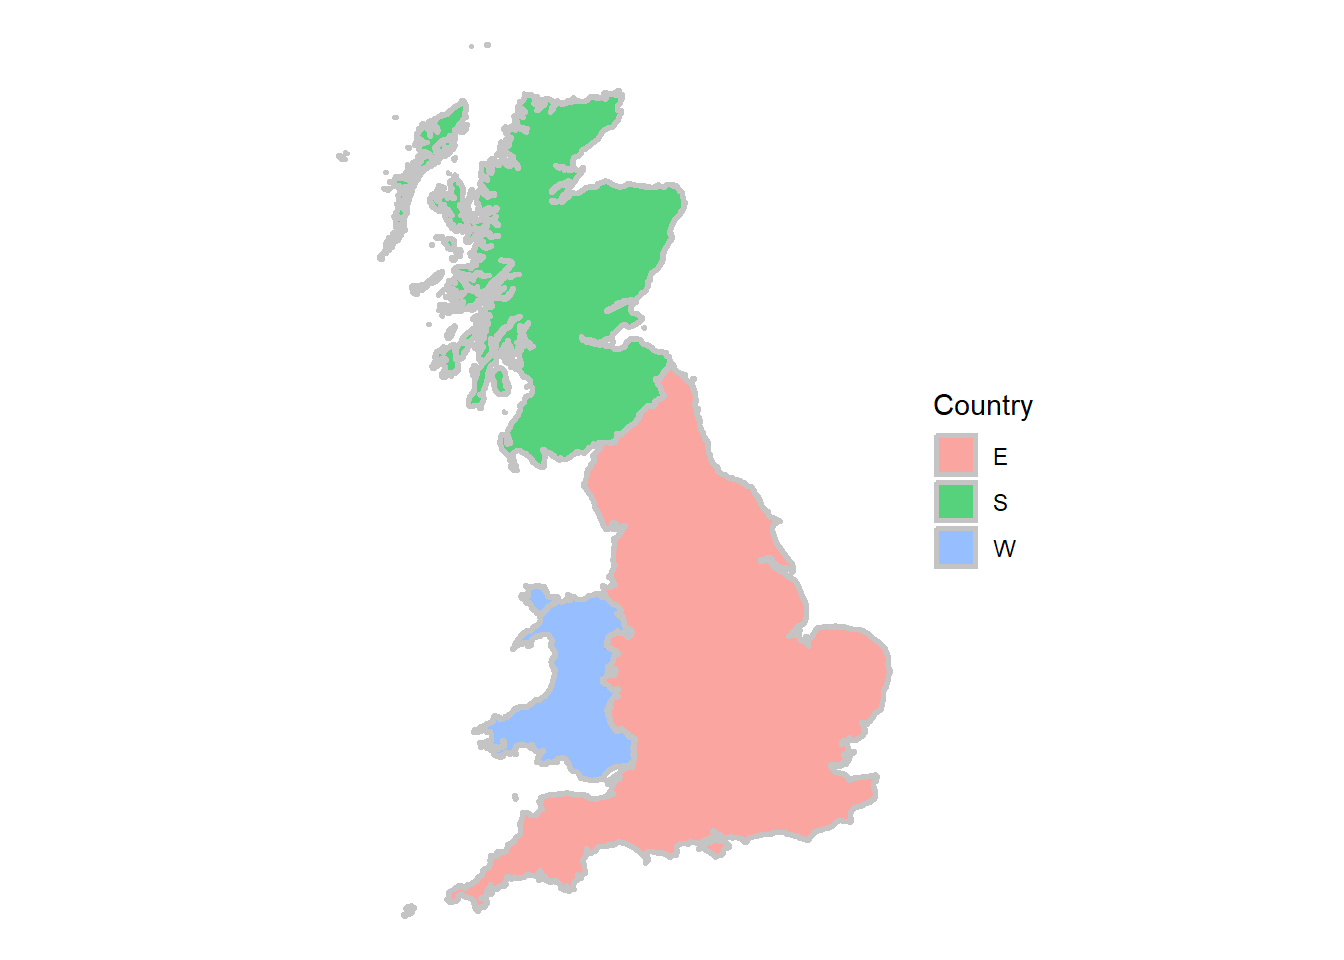
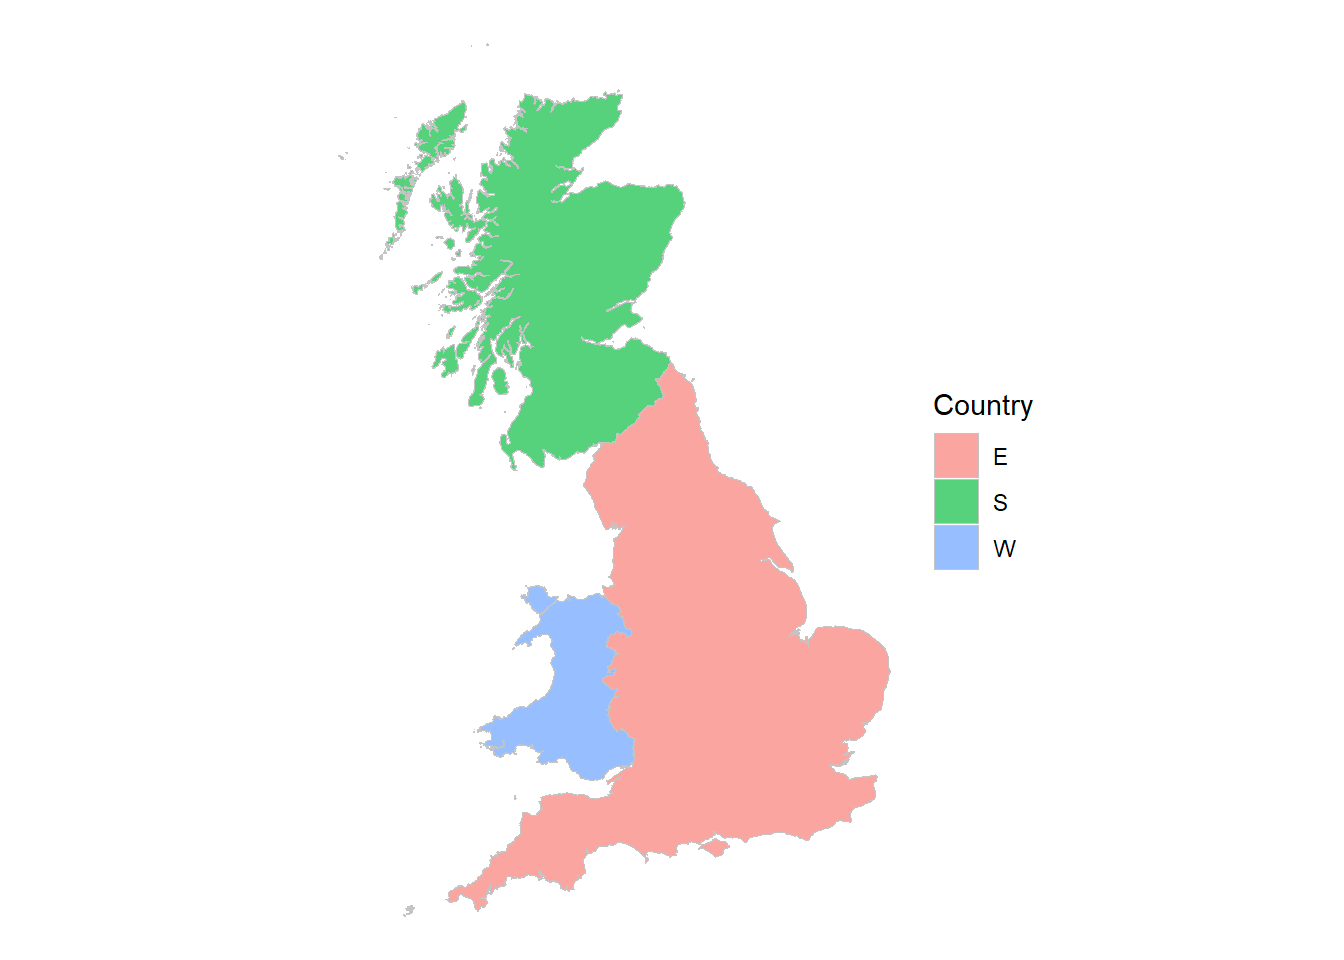
More gray

diff --git a/docs/Maps.html b/docs/Maps.html
@@ -230,11 +230,11 @@ div.csl-indent {
     <h2 id="toc-title">Table of contents</h2>
    
   <ul>
-  <li><a href="#how-heterogenous-is-uk-house-price-inflation" id="toc-how-heterogenous-is-uk-house-price-inflation" class="nav-link active" data-scroll-target="#how-heterogenous-is-uk-house-price-inflation"><span class="toc-section-number">5.1</span>  How heterogenous is UK house price inflation?</a>
+  <li><a href="#how-heterogenous-is-uk-house-price-inflation" id="toc-how-heterogenous-is-uk-house-price-inflation" class="nav-link active" data-scroll-target="#how-heterogenous-is-uk-house-price-inflation"><span class="toc-section-number">5.1</span>  How heterogenous is UK house price inflation?</a></li>
+  <li><a href="#inflation-data-and-regions" id="toc-inflation-data-and-regions" class="nav-link" data-scroll-target="#inflation-data-and-regions"><span class="toc-section-number">5.2</span>  Inflation data and regions</a>
   <ul class="collapse">
-  <li><a href="#inflation-data-and-regions" id="toc-inflation-data-and-regions" class="nav-link" data-scroll-target="#inflation-data-and-regions"><span class="toc-section-number">5.1.1</span>  Inflation data and regions</a></li>
+  <li><a href="#inflation-in-grayscale" id="toc-inflation-in-grayscale" class="nav-link" data-scroll-target="#inflation-in-grayscale"><span class="toc-section-number">5.2.1</span>  Inflation in grayscale</a></li>
   </ul></li>
-  <li><a href="#inflation-in-grayscale" id="toc-inflation-in-grayscale" class="nav-link" data-scroll-target="#inflation-in-grayscale"><span class="toc-section-number">5.2</span>  Inflation in grayscale</a></li>
   </ul>
 </nav>
     </div>
@@ -314,10 +314,9 @@ div.csl-indent {
 <p>Fewer Scottish Islands makes the graphs a lot clearer with little loss of information, given the tiny number of transactions in the Orkneys and the Shetlands, very far to the north.</p>
 <p>In what follows we filter out the islands using</p>
 <div class="cell" data-layout-align="center">
-<div class="sourceCode cell-code" id="cb6"><pre class="sourceCode r code-with-copy"><code class="sourceCode r"><span id="cb6-1"><a href="#cb6-1" aria-hidden="true" tabindex="-1"></a>fle <span class="ot">&lt;-</span> <span class="st">"LAD_Dec_2015_GCB_GB"</span></span>
-<span id="cb6-2"><a href="#cb6-2" aria-hidden="true" tabindex="-1"></a>shape <span class="ot">&lt;-</span> <span class="fu">read_sf</span>(<span class="at">dsn=</span><span class="st">"."</span>, <span class="at">layer=</span>fle) <span class="sc">%&gt;%</span></span>
-<span id="cb6-3"><a href="#cb6-3" aria-hidden="true" tabindex="-1"></a>  <span class="fu">filter</span>(<span class="sc">!</span>lad15nm <span class="sc">%in%</span> <span class="fu">c</span>(<span class="st">"Shetland Islands"</span>,<span class="st">"Orkney Islands"</span>)) <span class="sc">%&gt;%</span></span>
-<span id="cb6-4"><a href="#cb6-4" aria-hidden="true" tabindex="-1"></a>  <span class="fu">mutate</span>(<span class="at">Country=</span><span class="fu">str_sub</span>(lad15cd, <span class="dv">1</span>, <span class="dv">1</span>), <span class="at">.after=</span><span class="dv">1</span>)</span></code><button title="Copy to Clipboard" class="code-copy-button"><i class="bi"></i></button></pre></div>
+<div class="sourceCode cell-code" id="cb6"><pre class="sourceCode r code-with-copy"><code class="sourceCode r"><span id="cb6-1"><a href="#cb6-1" aria-hidden="true" tabindex="-1"></a>shape <span class="ot">&lt;-</span> <span class="fu">read_sf</span>(<span class="at">dsn=</span><span class="st">"."</span>, <span class="at">layer=</span>fle) <span class="sc">%&gt;%</span></span>
+<span id="cb6-2"><a href="#cb6-2" aria-hidden="true" tabindex="-1"></a>  <span class="fu">filter</span>(<span class="sc">!</span>lad15nm <span class="sc">%in%</span> <span class="fu">c</span>(<span class="st">"Shetland Islands"</span>,<span class="st">"Orkney Islands"</span>)) <span class="sc">%&gt;%</span></span>
+<span id="cb6-3"><a href="#cb6-3" aria-hidden="true" tabindex="-1"></a>  <span class="fu">mutate</span>(<span class="at">Country=</span><span class="fu">str_sub</span>(lad15cd, <span class="dv">1</span>, <span class="dv">1</span>), <span class="at">.after=</span><span class="dv">1</span>)</span></code><button title="Copy to Clipboard" class="code-copy-button"><i class="bi"></i></button></pre></div>
 </div>
 <p>where we also create an indicator of country using the first letter of the code string.</p>
 <p>So the country map is</p>
@@ -326,7 +325,7 @@ div.csl-indent {
 <span id="cb7-2"><a href="#cb7-2" aria-hidden="true" tabindex="-1"></a>  <span class="fu">group_by</span>(Country) <span class="sc">%&gt;%</span></span>
 <span id="cb7-3"><a href="#cb7-3" aria-hidden="true" tabindex="-1"></a>  <span class="fu">summarise</span>() <span class="sc">%&gt;%</span></span>
 <span id="cb7-4"><a href="#cb7-4" aria-hidden="true" tabindex="-1"></a>  <span class="fu">ggplot</span>() <span class="sc">+</span></span>
-<span id="cb7-5"><a href="#cb7-5" aria-hidden="true" tabindex="-1"></a>  <span class="fu">geom_sf</span>(<span class="fu">aes</span>(<span class="at">fill=</span>Country), <span class="at">color=</span><span class="st">"grey77"</span>, <span class="at">linewidth=</span><span class="dv">1</span>, <span class="at">alpha=</span>.<span class="dv">66</span>) <span class="sc">+</span></span>
+<span id="cb7-5"><a href="#cb7-5" aria-hidden="true" tabindex="-1"></a>  <span class="fu">geom_sf</span>(<span class="fu">aes</span>(<span class="at">fill=</span>Country), <span class="at">color=</span><span class="st">"grey77"</span>, <span class="at">linewidth=</span>.<span class="dv">25</span>, <span class="at">alpha=</span>.<span class="dv">66</span>) <span class="sc">+</span></span>
 <span id="cb7-6"><a href="#cb7-6" aria-hidden="true" tabindex="-1"></a>  <span class="fu">theme_void</span>()</span></code><button title="Copy to Clipboard" class="code-copy-button"><i class="bi"></i></button></pre></div>
 <div class="cell-output-display">
 <div class="quarto-figure quarto-figure-center">
@@ -337,14 +336,12 @@ div.csl-indent {
 </div>
 </div>
 <p>Note the really nice feature – if we group by something, in this case country, we can summarise to amalgamate the geometries!</p>
-<p>You may have noticed, one thing that that’s missing on the LA graphs is the boundaries. They aren’t, they’re just invisible. That’s because I have set <code>colour = NA</code>, so we can fix that by choosing a colour and making the lines very thin so they don’t swamp the map, as in the country one.</p>
-<div class="cell" data-layout-align="center">
-
-</div>
+<p>You may have noticed, one thing that that’s missing on the LA graphs is the boundaries. They aren’t, they’re just invisible. That’s because I set <code>colour = NA</code>, so I can fix that by choosing a colour and making the lines very thin so they don’t swamp the map, as in the country one.</p>
 <p>One further amendment, the <code>fill</code> is moved inside the <code>aes()</code> specification and made conditional. <code>R</code> now chooses unique colours for each of the regions.</p>
 <p>Two things now need to be done to get the map colours right to illustrate regional inflation rates. First we need to amalgamate some of the Local Authority boundaries to the Land Registry definitions, and second we need to assign the inflation rate to each area.</p>
-<section id="inflation-data-and-regions" class="level3" data-number="5.1.1">
-<h3 data-number="5.1.1" class="anchored" data-anchor-id="inflation-data-and-regions"><span class="header-section-number">5.1.1</span> Inflation data and regions</h3>
+</section>
+<section id="inflation-data-and-regions" class="level2" data-number="5.2">
+<h2 data-number="5.2" class="anchored" data-anchor-id="inflation-data-and-regions"><span class="header-section-number">5.2</span> Inflation data and regions</h2>
 <p>We have a map, and we have that data in a form that is easy to understand. If we can suitably attach an inflation rate to each area then we can fill the individual areas with a colour unique to each individual inflation rates.</p>
 <p>Recall that the Land Registry areas aren’t quite what we have, and will need amalgamating. <span class="citation" data-cites="BFP">Bahaj, Foulis, and Pinter (<a href="references.html#ref-BFP" role="doc-biblioref">2020</a>)</span> supplied me the areas that needed amalgamating (and the inflation rates) using the <a href="https://en.wikipedia.org/wiki/ONS_coding_system">ONS codes</a>. This is contained in the metadata <code>lad15cd</code> above.</p>
 <p>The data is structured in ‘wide’ format with one row for each Land Registry region. The details aren’t very important for us now, but what it means is I can manipulate it to get</p>
@@ -374,7 +371,7 @@ div.csl-indent {
 4 E07000007 buckinghamshire</code></pre>
 </div>
 </div>
-<p>Join:</p>
+<p>Join these together</p>
 <div class="cell">
 <div class="sourceCode cell-code" id="cb11"><pre class="sourceCode r code-with-copy"><code class="sourceCode r"><span id="cb11-1"><a href="#cb11-1" aria-hidden="true" tabindex="-1"></a><span class="co"># Join polygons defined by Land Registry regions</span></span>
 <span id="cb11-2"><a href="#cb11-2" aria-hidden="true" tabindex="-1"></a>gg <span class="ot">&lt;-</span> shape <span class="sc">%&gt;%</span></span>
@@ -383,11 +380,9 @@ div.csl-indent {
 <span id="cb11-5"><a href="#cb11-5" aria-hidden="true" tabindex="-1"></a>  <span class="fu">group_by</span>(land_reg_region) <span class="sc">%&gt;%</span></span>
 <span id="cb11-6"><a href="#cb11-6" aria-hidden="true" tabindex="-1"></a>  <span class="fu">summarise</span>() </span></code><button title="Copy to Clipboard" class="code-copy-button"><i class="bi"></i></button></pre></div>
 </div>
-<p>produces a match between the Land Registry and the Local Authority areas, plus the inflation rates. To illustrate this just filter out the <code>buckinghamshire</code> ones again to see:</p>
-</section>
-</section>
-<section id="inflation-in-grayscale" class="level2" data-number="5.2">
-<h2 data-number="5.2" class="anchored" data-anchor-id="inflation-in-grayscale"><span class="header-section-number">5.2</span> Inflation in grayscale</h2>
+<p>which produces a match between the Land Registry and the Local Authority areas, plus the inflation rates.</p>
+<section id="inflation-in-grayscale" class="level3" data-number="5.2.1">
+<h3 data-number="5.2.1" class="anchored" data-anchor-id="inflation-in-grayscale"><span class="header-section-number">5.2.1</span> Inflation in grayscale</h3>
 <p>All the information required to plot the Land Registry-based regional inflation rates is now available. As you can see from the <code>buckinghamshire</code> data above, there are three average rates in three different periods, so I’ll focus on one, 2002-2007 to begin with.</p>
 <p>First, augment the geographic data with the inflation data, and call them something better.</p>
 <div class="cell" data-layout-align="center">
@@ -404,7 +399,7 @@ div.csl-indent {
 </div>
 </div>
 </div>
-<p>Then calculate some limits for the gradient, and modify the specify a plot to include specifically gray and put the legend at the bottom.</p>
+<p>Then specify gray and put the legend at the bottom.</p>
 <div class="cell" data-layout-align="center">
 <div class="sourceCode cell-code" id="cb13"><pre class="sourceCode r code-with-copy"><code class="sourceCode r"><span id="cb13-1"><a href="#cb13-1" aria-hidden="true" tabindex="-1"></a>nms <span class="ot">&lt;-</span> <span class="fu">gsub</span>(<span class="st">"av_hp_growth"</span>, <span class="st">"HPI"</span>, <span class="fu">colnames</span>(hp_data))</span>
 <span id="cb13-2"><a href="#cb13-2" aria-hidden="true" tabindex="-1"></a></span>
@@ -415,7 +410,7 @@ div.csl-indent {
 <span id="cb13-7"><a href="#cb13-7" aria-hidden="true" tabindex="-1"></a>  <span class="fu">left_join</span>(gg) <span class="sc">%&gt;%</span></span>
 <span id="cb13-8"><a href="#cb13-8" aria-hidden="true" tabindex="-1"></a>  <span class="fu">ggplot</span>() <span class="sc">+</span></span>
 <span id="cb13-9"><a href="#cb13-9" aria-hidden="true" tabindex="-1"></a>  <span class="fu">geom_sf</span>(<span class="fu">aes</span>(<span class="at">geometry=</span>geometry, <span class="at">fill=</span>HPI_02_07), </span>
-<span id="cb13-10"><a href="#cb13-10" aria-hidden="true" tabindex="-1"></a>          <span class="at">color=</span><span class="cn">NA</span>, <span class="at">alpha=</span>.<span class="dv">66</span>, <span class="at">show.legend =</span> <span class="cn">FALSE</span>) <span class="sc">+</span></span>
+<span id="cb13-10"><a href="#cb13-10" aria-hidden="true" tabindex="-1"></a>          <span class="at">color=</span><span class="cn">NA</span>, <span class="at">alpha=</span>.<span class="dv">66</span>, <span class="at">show.legend =</span> <span class="cn">TRUE</span>) <span class="sc">+</span></span>
 <span id="cb13-11"><a href="#cb13-11" aria-hidden="true" tabindex="-1"></a>  <span class="fu">theme_void</span>() <span class="sc">+</span></span>
 <span id="cb13-12"><a href="#cb13-12" aria-hidden="true" tabindex="-1"></a>  <span class="fu">scale_fill_gradient</span>(<span class="at">low=</span><span class="fu">grey</span>(<span class="fl">0.9</span>), <span class="at">high=</span><span class="fu">grey</span>(<span class="fl">0.05</span>)) <span class="sc">+</span></span>
 <span id="cb13-13"><a href="#cb13-13" aria-hidden="true" tabindex="-1"></a>  <span class="fu">theme</span>(<span class="at">legend.direction =</span> <span class="st">"horizontal"</span>, </span>
@@ -439,6 +434,7 @@ div.csl-indent {
 Bahaj, Saleem, Angus Foulis, and Gabor Pinter. 2020. <span>“Home Values and Firm Behavior.”</span> <em>American Economic Review</em> 110 (7): 2225–70. <a href="https://doi.org/10.1257/aer.20180649">https://doi.org/10.1257/aer.20180649</a>.
 </div>
 </div>
+</section>
 </section>
 
 </main> <!-- /main -->
